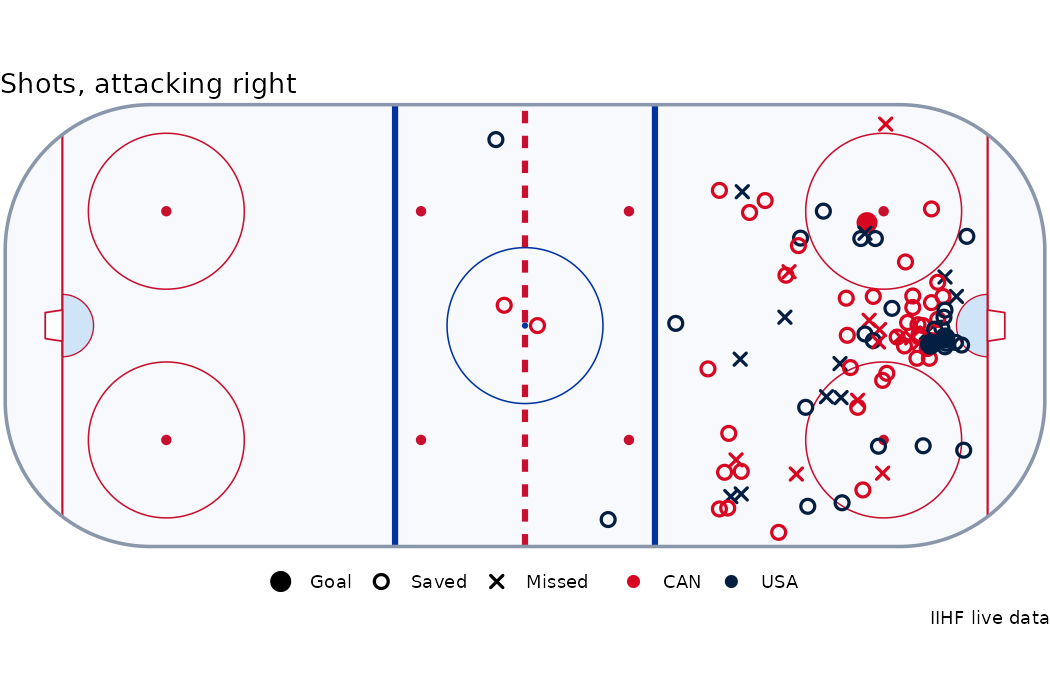
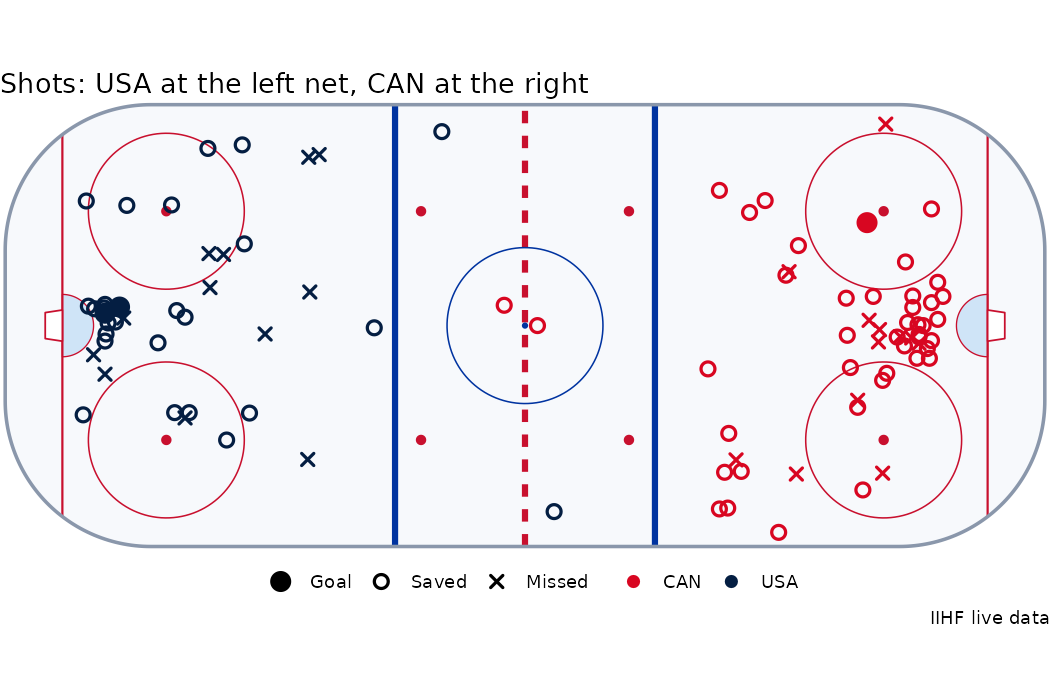
plot_shots(): each club at its own end
The away club's shots go to the left net and the home club's to the
right, for NHL play-by-play and IIHF shots alike. sides = "right" keeps
the old one-net view, and a single team still attacks right.

diff --git a/README.md b/README.md
@@ -66,11 +66,13 @@ pbp[pbp$type == "goal", c("period", "time_in_period", "event_team", "strength_st
 #> 4      3 01:41          EDM        4v5            Connor McDavid           87      -3
 ```
 
+`plot_shots()` puts each club at its own end, the away club at the left net:
+
 ``` r
 plot_shots(pbp)
 ```
 
-<img src="man/figures/README-shots-1.png" alt="Shot map of Edmonton at Boston, both clubs attacking right." width="100%" />
+<img src="man/figures/README-shots-1.png" alt="Shot map of Edmonton at Boston: Edmonton at the left net, Boston at the right." width="100%" />
 
 ## A goal, from the tracking
 
@@ -273,7 +275,7 @@ wm[wm$phase %in% c("Semifinals", "BronzeMedalGame", "GoldMedalGame"), c("game_id
 plot_shots(shots)
 ```
 
-<img src="man/figures/README-iihf-1.png" alt="Every shot of the 2026 Olympic final, both teams attacking right; Hughes's overtime winner from the slot." width="100%" />
+<img src="man/figures/README-iihf-1.png" alt="Every shot of the 2026 Olympic final: USA at the left net, Canada at the right; Hughes's overtime winner from the slot." width="100%" />
 
 ## DraftKings odds and player props
 

diff --git a/NEWS.md b/NEWS.md
@@ -18,6 +18,8 @@
   and every playoff game of any season, from records.nhl.com.
 * `nhl_edge_leaders()` has all thirteen EDGE top-10 boards: skater shot location, team shot speed,
   distance, zone time and shot location, and the goalie boards (5 on 5, by area, games above .900).
+* `plot_shots()` draws each club at its own end, the away club at the left net and the home club at
+  the right; `sides = "right"` keeps the old view with every shot at one net.
 
 * `nhl_international()`, `nhl_international_careers()`, `nhl_international_games()`,
   `nhl_international_winners()` and `nhl_olympic_podiums()`: every Canada Cup, World Cup of Hockey,
